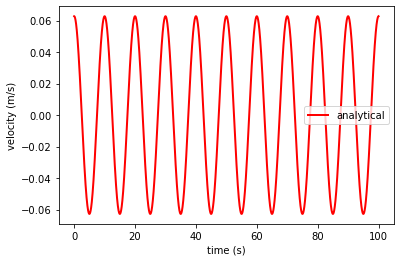
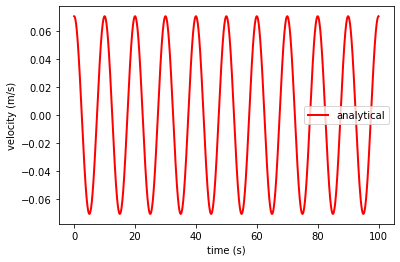
deploy: dd34085ae1867456afd2db93d267942436384a26

diff --git a/searchindex.js b/searchindex.js
@@ -1,1 +1,1 @@
-Search.setIndex({docnames:["axial-vibration1d","bar1d-vibration","intro","mpm-code"],envversion:{"sphinx.domains.c":2,"sphinx.domains.changeset":1,"sphinx.domains.citation":1,"sphinx.domains.cpp":5,"sphinx.domains.index":1,"sphinx.domains.javascript":2,"sphinx.domains.math":2,"sphinx.domains.python":3,"sphinx.domains.rst":2,"sphinx.domains.std":2,"sphinx.ext.intersphinx":1,"sphinxcontrib.bibtex":9,sphinx:56},filenames:["axial-vibration1d.ipynb","bar1d-vibration.ipynb","intro.md","mpm-code.md"],objects:{},objnames:{},objtypes:{},terms:{"0":[0,1],"001":1,"01":[0,1],"039478417604357434":1,"05":1,"0x11b0e7d30":0,"1":[0,2],"10":1,"100":0,"13":0,"15915494309189535":1,"1d":2,"1e":0,"2":[0,2],"2002":2,"2003":2,"2018":2,"25":0,"2d":0,"2l":0,"3":2,"4":[1,2],"5":[0,1],"5005":1,"6":2,"649":2,"664":2,"case":1,"do":1,"function":0,"import":[0,1],"int":[0,1],"new":2,"return":[0,1],"while":2,A:2,As:1,At:1,For:[1,2],In:[0,1],It:2,One:2,The:[0,1,2],These:1,_:[0,1],_i:1,_p:1,ab:[0,1],acceler:[1,2],advanc:1,after:[1,2],algorithm:[1,2],all:1,an:1,analyt:0,analytical_vibr:1,append:[0,1],appli:0,approach:2,ar:[0,1,2],arang:1,arrai:[0,1],arrow:2,assign:2,assum:1,automat:2,averag:2,avoid:1,axial:2,axial_vibration_bar1d:0,b1:[0,1],b2:1,b:1,b_i:1,back:[1,2],background:2,balanc:2,bar:2,bardenhagen:2,base:[0,1,2],bc:1,been:2,begin:[1,2],being:2,below:1,beta1:0,beta_1:0,between:1,bodi:1,boldsymbol:1,book:2,both:[1,2],boundari:0,c:[0,1],calcul:2,call:2,cambridg:2,cdot:1,center:0,central:0,co:[0,1],code:2,collect:2,combin:2,compar:1,comparison:2,comput:[0,2],condit:0,configur:1,conserv:2,consid:1,consist:1,constant:[1,2],constitut:[1,2],constrain:1,context:2,continuum:0,coordin:1,crack:2,creat:0,crit:1,d:1,def:[0,1],defin:1,deform:[0,2],delta:2,denot:1,densiti:1,depend:2,deriv:[0,1],descrit:1,determin:2,develop:1,displac:1,dissert:2,dissip:2,distribut:1,divid:1,dn1:0,dn2:0,dn:1,doctor:2,doe:2,domain:0,dot:1,dstrain:[0,1],dstrain_p:1,dt:[0,1],dt_crit:[0,1],dtype:0,durat:[0,1],dv:1,dx:[0,1],e:[0,1],each:[0,1,2],effect:2,el_length:1,elast:[0,1],element:[0,1],els:1,end:[0,1,2],energi:[1,2],enforc:2,engin:2,entir:1,entiti:3,equal:[0,1],equat:[1,2],equival:1,etc:[1,2],eulerian:2,evenli:1,exact:[0,1],exampl:1,exp:1,explicit:[1,2],explicitli:2,ext:1,f:[0,1],f_ext_n:1,f_int_n:[0,1],f_total_n:1,feel:2,figur:2,find:1,first:2,fix:1,floor:0,follow:1,forc:0,format:1,formul:2,found:2,frac:[0,1,2],frequenc:0,full:1,g:1,gener:1,get:[0,1],give:2,global:1,govern:2,grad_v:0,gradf_p:0,gradient:[0,1],grid:[0,1,2],ha:[1,2],have:2,henc:1,here:1,howev:[1,2],hybrid:2,i:[0,1,2],id:0,ii:1,iii:1,illustr:2,implement:[1,2],impos:1,increament:1,increas:2,increment:1,independ:1,initi:0,initialis:1,intern:0,interpol:[1,2],intial:0,iter:0,its:1,iv:1,j:2,ke_t:1,keep:1,kinemat:2,kinet:1,kinetic_energi:1,known:2,kularathna:2,l:[0,1],l_x:1,label:[0,1],lagrangian:2,larg:2,last:[1,2],law:2,le:1,left:1,legend:[0,1],len:[0,1],length:[0,1],let:[0,1],limits_:1,line2d:0,line:0,linear:[0,1],linewidth:[0,1],linspac:0,list:1,load:0,locat:1,m:[0,1],m_i:1,m_p:1,map:0,markers:1,mass:[0,2],mass_n:[0,1],mass_nod:1,mass_p:[0,1],materi:0,mathbf:1,matplotlib:[0,1],mesh:[1,2],middl:1,mode:0,model:[0,1,2],modifi:2,modulu:[0,1],mom_n:0,momenta:1,momentum:[0,2],motion:2,move:2,musl:2,must:1,mv_n:1,mv_p:1,n1:[0,1],n2:[0,1],n:1,n_i:1,n_n:1,n_p:1,nairn:2,natur:1,nelement:[0,1],newton:2,next:1,nid1:0,nid2:0,nid:0,nnode:[0,1],nodal:[0,2],node:[0,2],now:[0,1],np:[0,1],nparticl:[0,1],nstep:[0,1],number:[0,1],numer:2,numpi:[0,1],nv1:0,nv2:0,ob:1,observ:2,omega1:0,omega:1,omega_1:0,ones:0,onto:2,order:1,origin:2,other:2,overlaid:2,overview:[1,3],p:[1,2],param:0,particl:[0,2],particularli:2,pi:[0,1],plot:0,plt:[0,1],pmid:0,point:0,posit:[0,2],prefer:1,print:1,problem:1,progress:0,project:2,properti:0,put:1,pyplot:[0,1],quad:1,quantiti:1,r:[0,1],rang:[0,1],rate:1,rather:1,re:1,relationship:2,remap:1,repeat:1,repres:[1,2],represent:2,reproduc:2,reset:[0,1,2],result:2,rho:[0,1],right:1,s:[0,1,2],sampl:2,satisfi:2,scheme:2,scienc:2,se_t:1,set:[0,1],shape:0,show:[0,1,2],shown:[1,2],sigma:[1,2],sigma_p:1,similarli:1,simul:1,sin:[0,1],sinc:1,singl:1,size:[1,2],slow:2,small:2,smaller:1,so:1,solut:[0,2],solv:2,sound:0,space:0,speed:[0,1],split:[1,2],sqrt:[0,1],start:1,state:2,step:[0,2],store:1,strain:2,strain_energi:1,strain_p:1,strain_rat:1,strain_rate_p:1,stress:[0,2],stress_p:[0,1],strongli:2,studi:0,subscript:2,sum:1,system:[0,1],t:[0,2],t_:1,ta:[0,1],te_t:1,tensor:2,text:1,textbf:1,than:1,thi:[1,2],through:0,throughout:1,time:[0,2],time_t:1,togeth:1,tol:0,toler:0,tot:1,total_energi:1,track:1,tt:[0,1],two:[1,2],typic:1,u:0,undeform:1,univers:2,unstress:1,up:[0,1],updat:[0,2],us:[0,1,2],usavg:2,usf:2,usl:2,v0:[0,1],v:[0,1,2],v_0:[0,1],v_n:1,v_p:1,va:[0,1],valu:[0,2],varepsilon:[1,2],variabl:1,vector:2,vel_n:1,vel_p:[0,1],vel_t:1,veloc:[0,2],veri:2,versa:1,version:2,vi:1,vibrat:2,vice:1,vol0_p:0,vol_p:[0,1],volum:[0,1,2],vt:[0,1],w1:0,wa:2,wave:1,we:1,where:[0,1],which:[1,2],within:2,work:0,x:[0,1,2],x_0:1,x_i:1,x_loc:1,x_n:0,x_p:[0,1],x_t:1,xa:[0,1],xlabel:[0,1],xs:1,xt:[0,1],y:1,ylabel:[0,1],you:2,young:[0,1],zero:[0,1],zeros_lik:1},titles:["Axial vibration of a 1D bar","Solving 1D vibrating bar with Material Point Method","Welcome to learn MPM with Python","Coding 1D MPM"],titleterms:{"1":1,"1d":[0,1,3],"2":1,"function":1,analyt:1,appli:1,axial:0,bar:[0,1],boundari:1,calcul:1,code:[1,3],complet:1,comput:1,condit:1,critic:1,delta:1,domain:1,extern:1,forc:1,from:1,initi:1,intern:1,learn:2,load:1,map:1,mass:1,materi:[1,2],method:[1,2],momentum:1,mpm:[0,1,2,3],nodal:1,node:1,particl:1,phase:1,plot:1,point:[1,2],posit:1,properti:1,python:2,result:1,scheme:1,shape:1,solut:1,solv:1,step:1,strain:1,stress:1,t:1,time:1,total:1,unbalanc:1,updat:1,usl:1,veloc:1,vibrat:[0,1],welcom:2}})
+Search.setIndex({docnames:["axial-vibration1d","bar1d-vibration","intro","mpm-code"],envversion:{"sphinx.domains.c":2,"sphinx.domains.changeset":1,"sphinx.domains.citation":1,"sphinx.domains.cpp":5,"sphinx.domains.index":1,"sphinx.domains.javascript":2,"sphinx.domains.math":2,"sphinx.domains.python":3,"sphinx.domains.rst":2,"sphinx.domains.std":2,"sphinx.ext.intersphinx":1,"sphinxcontrib.bibtex":9,sphinx:56},filenames:["axial-vibration1d.ipynb","bar1d-vibration.ipynb","intro.md","mpm-code.md"],objects:{},objnames:{},objtypes:{},terms:{"0":[0,1],"001":1,"01":[0,1],"039478417604357434":1,"05":1,"1":[0,2],"10":1,"100":0,"12":0,"13":0,"15915494309189535":1,"1d":2,"1e":0,"2":[0,2],"2002":2,"2003":2,"2018":2,"25":0,"2d":0,"2l":0,"3":2,"4":[1,2],"5":[0,1],"5005":1,"6":2,"649":2,"664":2,"case":1,"do":1,"function":0,"import":[0,1],"int":[0,1],"new":2,"return":[0,1],"while":2,A:2,As:1,At:1,For:[1,2],In:[0,1],It:2,One:2,The:[0,1,2],These:1,_:[0,1],_i:1,_p:1,ab:[0,1],acceler:[1,2],advanc:1,after:[1,2],algorithm:[1,2],all:1,alreadi:0,an:1,analyt:0,analytical_vibr:1,append:[0,1],appli:0,approach:2,ar:[0,1,2],arang:1,arrai:[0,1],arrow:2,assign:2,assum:1,automat:2,averag:2,avoid:1,axial:2,axial_vibration_bar1d:0,b1:[0,1],b2:1,b:1,b_i:1,back:[1,2],background:2,balanc:2,bar:2,bardenhagen:2,base:[0,1,2],bc:1,been:2,begin:[1,2],being:2,below:1,beta1:0,beta_1:0,between:1,bodi:1,boldsymbol:1,book:2,both:[1,2],boundari:0,c:[0,1],calcul:2,call:2,cambridg:2,cdot:1,center:0,central:0,co:[0,1],code:2,collect:2,combin:2,compar:1,comparison:2,comput:[0,2],condit:0,configur:1,conserv:2,consid:1,consist:1,constant:[1,2],constitut:[1,2],constrain:1,context:2,continuum:0,coordin:1,crack:2,creat:0,crit:1,d:1,def:[0,1],defin:1,deform:2,delta:2,denot:1,densiti:1,depend:2,deriv:[0,1],descrit:1,determin:2,develop:1,displac:1,dissert:2,dissip:2,distribut:1,divid:1,dn1:0,dn2:0,dn:1,doctor:2,doe:2,domain:0,dot:1,dstrain:[0,1],dstrain_p:1,dt:[0,1],dt_crit:[0,1],dtype:0,durat:[0,1],dv:1,dx:[0,1],e:[0,1],each:[0,1,2],effect:2,el_length:1,elast:[0,1],element:[0,1],els:1,end:[0,1,2],energi:[1,2],enforc:2,engin:2,entir:1,entiti:3,equal:[0,1],equat:[1,2],equival:1,etc:[1,2],eulerian:2,evenli:1,exact:[0,1],exampl:1,exp:1,explicit:[1,2],explicitli:2,ext:1,f:[0,1],f_ext_n:1,f_int_n:1,f_total_n:1,feel:2,figur:2,find:1,fint_n:0,first:2,fix:1,floor:0,follow:1,forc:0,format:1,formul:2,found:2,frac:[0,1,2],frequenc:0,full:1,g:1,gener:1,get:[0,1],give:2,global:1,govern:2,grad_v:0,gradient:1,grid:[0,1,2],ha:[1,2],have:2,henc:1,here:1,howev:[1,2],hybrid:2,i:[0,1,2],id:0,ii:1,iii:1,illustr:2,implement:[1,2],impos:1,increament:1,increas:2,increment:[0,1],independ:1,initi:0,initialis:1,intern:0,interpol:[1,2],iter:0,its:1,iv:1,j:2,ke_t:1,keep:1,kinemat:2,kinet:1,kinetic_energi:1,known:2,kularathna:2,l:[0,1],l_x:1,label:[0,1],lagrangian:2,larg:2,last:[1,2],law:2,le:1,left:1,legend:[0,1],len:[0,1],length:[0,1],let:[0,1],limits_:1,linear:[0,1],linewidth:[0,1],linspac:0,list:1,load:0,locat:1,m:[0,1],m_i:1,m_p:1,map:0,markers:[0,1],mass:[0,2],mass_n:[0,1],mass_nod:1,mass_p:[0,1],materi:0,mathbf:1,matplotlib:[0,1],mesh:[1,2],middl:1,mode:0,model:[0,1,2],modifi:2,modulu:[0,1],mom_n:0,momenta:1,momentum:[0,2],motion:2,move:2,musl:2,must:1,mv_n:1,mv_p:1,n1:[0,1],n2:[0,1],n:1,n_i:1,n_n:1,n_p:1,nairn:2,natur:1,nelement:[0,1],newton:2,next:1,nid1:0,nid2:0,nid:0,nnode:[0,1],nodal:[0,2],node:[0,2],now:[0,1],np:[0,1],nparticl:[0,1],nstep:[0,1],number:[0,1],numer:2,numpi:[0,1],nv1:0,nv2:0,ob:[0,1],observ:2,omega1:0,omega:1,omega_1:0,ones:0,onto:2,order:1,origin:2,other:2,overlaid:2,overview:[1,3],p:[1,2],param:0,particl:[0,2],particularli:2,pi:[0,1],plot:0,plt:[0,1],pmid:0,point:0,posit:[0,2],prefer:1,print:1,problem:1,progress:0,project:2,properti:0,put:1,pyplot:[0,1],quad:1,quantiti:1,r:[0,1],rang:[0,1],rate:[0,1],rather:1,re:1,relationship:2,remap:1,rendund:0,repeat:1,repres:[1,2],represent:2,reproduc:2,reset:[0,1,2],result:2,rho:[0,1],right:1,s:[0,1,2],sampl:2,satisfi:2,scheme:2,scienc:2,se_t:1,set:[0,1],shape:0,show:[0,1,2],shown:[1,2],sigma:[1,2],sigma_p:1,similarli:1,simul:1,sin:[0,1],sinc:[0,1],singl:1,size:[1,2],slow:2,small:2,smaller:1,so:1,solut:[0,2],solv:2,sound:0,space:0,speed:[0,1],split:[1,2],sqrt:[0,1],start:1,state:2,step:[0,2],store:1,strain:[0,2],strain_energi:1,strain_p:1,strain_rat:1,strain_rate_p:1,stress:[0,2],stress_p:[0,1],strongli:2,studi:0,subscript:2,sum:1,system:[0,1],t:[0,2],t_:1,ta:[0,1],te_t:1,tensor:2,text:1,textbf:1,than:1,thi:[1,2],through:0,throughout:1,time:[0,2],time_t:1,togeth:1,tol:0,toler:0,tot:1,total_energi:1,track:1,tt:[0,1],two:[1,2],typic:1,u:0,undeform:1,univers:2,unstress:1,up:[0,1],updat:[0,2],us:[0,1,2],usavg:2,usf:2,usl:2,v0:[0,1],v:[0,1,2],v_0:[0,1],v_n:1,v_p:1,va:[0,1],valu:[0,2],varepsilon:[1,2],variabl:1,vector:2,vel_n:1,vel_p:[0,1],vel_t:1,veloc:[0,2],veri:2,versa:1,version:2,vi:1,vibrat:2,vice:1,vol0_p:0,vol_p:[0,1],volum:[0,1,2],vt:[0,1],w1:0,wa:2,wave:1,we:1,where:[0,1],which:[1,2],within:2,work:0,x:[0,1,2],x_0:1,x_i:1,x_loc:1,x_n:0,x_p:[0,1],x_t:1,xa:[0,1],xlabel:[0,1],xs:1,xt:[0,1],y:1,ylabel:[0,1],you:2,young:[0,1],zero:[0,1],zeros_lik:1},titles:["Axial vibration of a 1D bar","Solving 1D vibrating bar with Material Point Method","Welcome to learn MPM with Python","Coding 1D MPM"],titleterms:{"1":1,"1d":[0,1,3],"2":1,"function":1,analyt:1,appli:1,axial:0,bar:[0,1],boundari:1,calcul:1,code:[1,3],complet:1,comput:1,condit:1,critic:1,delta:1,domain:1,extern:1,forc:1,from:1,initi:1,intern:1,learn:2,load:1,map:1,mass:1,materi:[1,2],method:[1,2],momentum:1,mpm:[0,1,2,3],nodal:1,node:1,particl:1,phase:1,plot:1,point:[1,2],posit:1,properti:1,python:2,result:1,scheme:1,shape:1,solut:1,solv:1,step:1,strain:1,stress:1,t:1,time:1,total:1,unbalanc:1,updat:1,usl:1,veloc:1,vibrat:[0,1],welcom:2}})

diff --git a/axial-vibration1d.html b/axial-vibration1d.html
@@ -435,7 +435,7 @@ E = 100
 L = 25
 
 # analytical solution at the end of the bar
-ta, va, xa = axial_vibration_bar1d(L = L, E = E, rho = 1, duration = 100, dt = 0.01, v0 = 1.0, x = 1.0)
+ta, va, xa = axial_vibration_bar1d(L = L, E = E, rho = 1, duration = 100, dt = 0.01, v0 = 0.1, x = 12.5)
 
 plt.plot(ta, va, &#39;r&#39;,linewidth=2,label=&#39;analytical&#39;)
 
@@ -462,7 +462,7 @@ plt.show()
 import matplotlib.pyplot as plt
 
 # mass tolerance
-tol = 1e-5
+tol = 1e-12
 
 # Domain
 L = 25
@@ -477,7 +477,7 @@ nelements = 13 # number of elements
 dx = L / nelements # element length
 
 # Create equally spaced nodes
-x_n = np.linspace(0, L, nelements + 1)
+x_n = np.linspace(0, L, nelements+1)
 nnodes = len(x_n)
 
 # Set-up a 2D array of elements with node ids
@@ -486,7 +486,7 @@ for nid in range(nelements):
     elements[nid, :] = np.array([nid, nid+1])
 
 # Id of the particle in the central element
-pmid = int(np.floor((nelements/2)+1))
+pmid = int(np.floor((nelements/2)))
 
 # Loading conditions
 v0 = 0.1             # initial velocity
@@ -501,7 +501,6 @@ nparticles = nelements  # number of particles
 x_p      = np.zeros(nparticles)       # positions
 vol_p    = np.ones(nparticles) * dx   # volume
 mass_p   = vol_p * rho                # mass
-gradf_p  = np.ones(nparticles)        # gradient of deformation
 stress_p = np.zeros(nparticles)       # stress
 vel_p    = np.zeros(nparticles)       # velocity
 vol0_p   = vol_p                      # initial volume
@@ -521,21 +520,17 @@ nsteps = int(duration / dt)
 
 tt, vt, xt = [], [], []
 
-# Intialize nodal properties
-mass_n  = np.zeros(nnodes)  # mass
-mom_n   = np.zeros(nnodes)  # momentum
-f_int_n = np.zeros(nnodes)  # internal force
-
 for step in range(nsteps):
     # reset nodal values
     mass_n  = np.zeros(nnodes)  # mass
     mom_n   = np.zeros(nnodes)  # momentum
-    f_int_n = np.zeros(nnodes)  # internal force
+    fint_n = np.zeros(nnodes)  # internal force
 
     # iterate through each element
     for id in range(nelements):
         # get nodal ids
         nid1, nid2 = elements[id]
+        
         # compute shape functions and derivatives
         N1 = 1 - abs(x_p[id] - x_n[nid1]) / dx
         N2 = 1 - abs(x_p[id] - x_n[nid2]) / dx
@@ -549,16 +544,16 @@ for step in range(nsteps):
         mom_n[nid2]  += N2 * mass_p[id] * vel_p[id]
 
         # compute nodal internal force
-        f_int_n[nid1] -= vol_p[id] * stress_p[id] * dN1
-        f_int_n[nid2] -= vol_p[id] * stress_p[id] * dN2
+        fint_n[nid1] -= vol_p[id] * stress_p[id] * dN1
+        fint_n[nid2] -= vol_p[id] * stress_p[id] * dN2
 
     # apply boundary conditions
-    mom_n[0] = 0   # Nodal velocity v = 0 in m * v at node 0.
-    f_int_n[0] = 0 # Nodal force f = m * a, where a = 0 at node 0.
+    mom_n[0]  = 0  # Nodal velocity v = 0 in m * v at node 0.
+    fint_n[0] = 0  # Nodal force f = m * a, where a = 0 at node 0.
 
     # update nodal momentum
     for nid in range(nnodes):
-        mom_n[nid] += f_int_n[nid] * dt
+        mom_n[nid] += fint_n[nid] * dt
 
     # update particle velocity position and stress
     # iterate through each element
@@ -574,9 +569,9 @@ for step in range(nsteps):
 
         # compute particle velocity
         if (mass_n[nid1]) &gt; tol:
-            vel_p[id] += dt * N1 * f_int_n[nid1] / mass_n[nid1]
+            vel_p[id] += dt * N1 * fint_n[nid1] / mass_n[nid1]
         if (mass_n[nid2]) &gt; tol:
-            vel_p[id] += dt * N2 * f_int_n[nid2] / mass_n[nid2]
+            vel_p[id] += dt * N2 * fint_n[nid2] / mass_n[nid2]
         
         # update particle position based on nodal momentum
         x_p[id] += dt * (N1 * mom_n[nid1]/mass_n[nid1] + N2 * mom_n[nid2]/mass_n[nid2])
@@ -586,16 +581,15 @@ for step in range(nsteps):
         nv2 = mom_n[nid2]/mass_n[nid2]
 
         # Apply boundary condition
+        # Rendundant, since momentum and forces are already set to zero
         # if (nid1 == 0): nv1 = 0
 
-        # particle gradient velocity
+        # rate of strain increment
         grad_v = dN1 * nv1 + dN2 * nv2
-        # particle deformation gradient
-        gradf_p[id] = (1 + grad_v * dt) * gradf_p[id]
-        # particle volume
-        vol_p[id] = gradf_p[id] * vol0_p[id]
         # particle dstrain
         dstrain = grad_v * dt
+        # particle volume
+        vol_p[id] *= (1 + dstrain)
         # update stress using linear elastic model
         stress_p[id] += E * dstrain
 
@@ -606,16 +600,18 @@ for step in range(nsteps):
 
     t = t + dt
 
-plt.plot(tt, vt)
-plt.plot(ta, va)
+plt.plot(ta, va, &#39;r&#39;, linewidth=1,label=&#39;analytical&#39;)
+plt.plot(tt, vt, &#39;ob&#39;, markersize=1, label=&#39;mpm&#39;)
+
+plt.xlabel(&#39;time (s)&#39;)
+plt.ylabel(&#39;velocity (m/s)&#39;)
+plt.legend()
+plt.show()
 </pre></div>
 </div>
 </div>
 <div class="cell_output docutils container">
-<div class="output text_plain highlight-myst-ansi notranslate"><div class="highlight"><pre><span></span>[&lt;matplotlib.lines.Line2D at 0x11b0e7d30&gt;]
-</pre></div>
-</div>
-<img alt="_images/axial-vibration1d_6_1.png" src="_images/axial-vibration1d_6_1.png" />
+<img alt="_images/axial-vibration1d_6_0.png" src="_images/axial-vibration1d_6_0.png" />
 </div>
 </div>
 </section>
